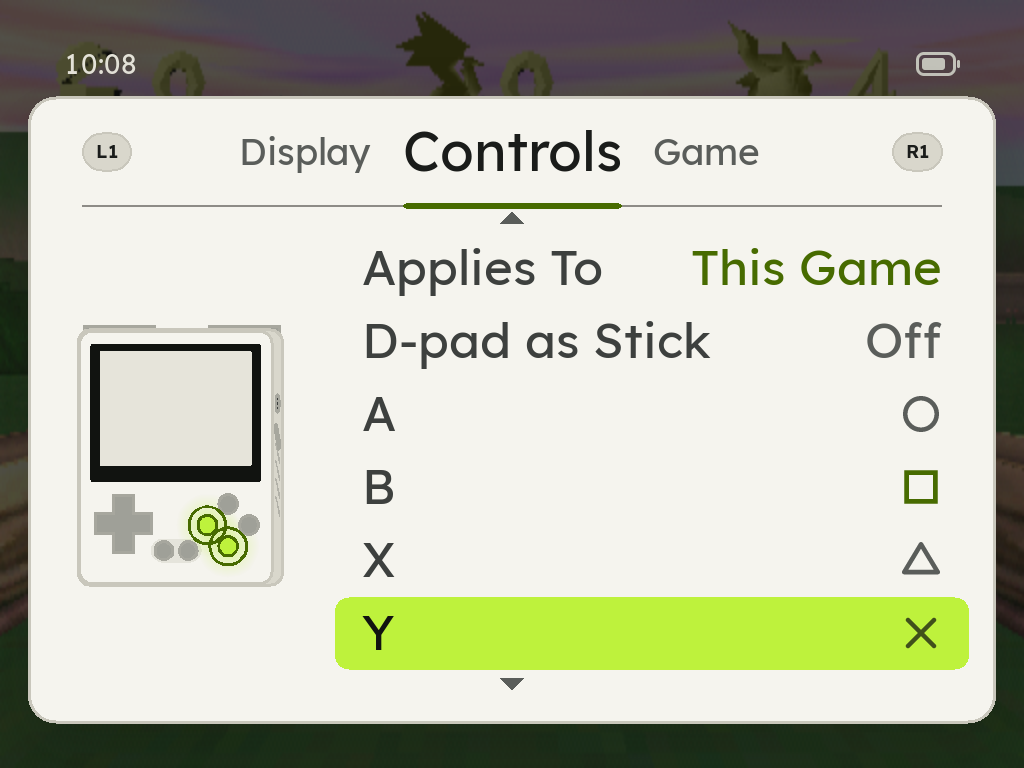
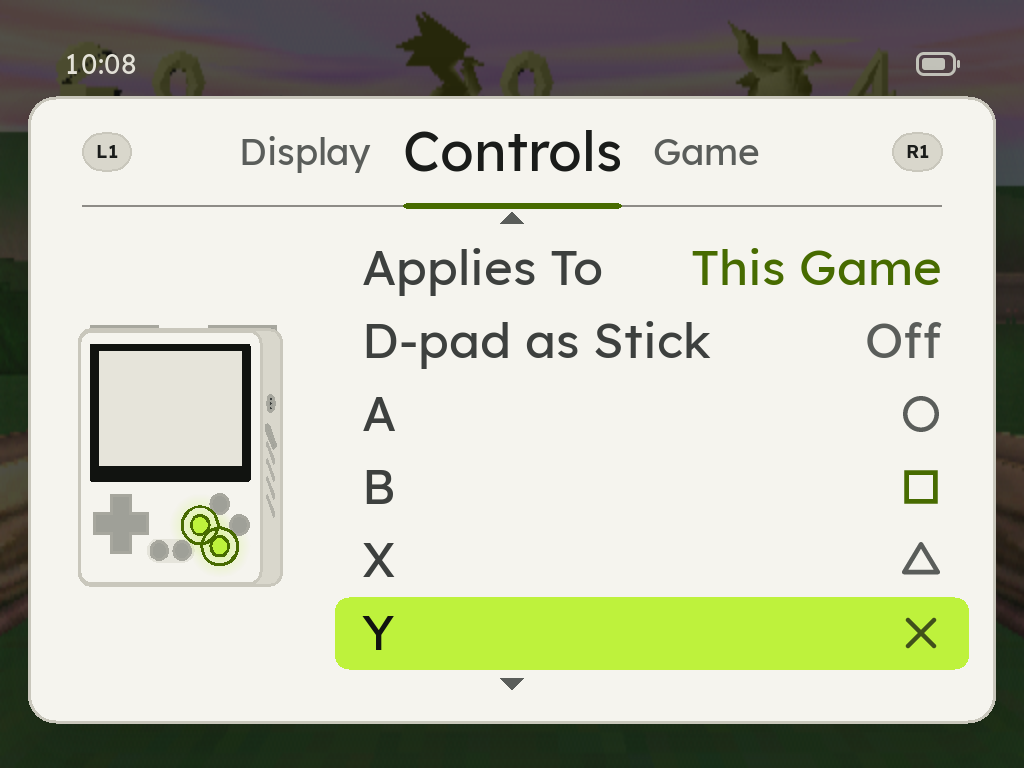
Controls tab: the handheld leans toward the button
The handheld turns 12 degrees toward the side of the keys the focused row
lights (ct_lean: A, B, X, Y, R1, R2 right; d-pad, L1, L2 left; SELECT, START,
both sides or none front), eased in the turn token from where it is.

Changed region(s): [[0.125, 0.4375, 0.2812, 0.75]]

diff --git a/src/ctltab_screen.c b/src/ctltab_screen.c
@@ -33,6 +33,9 @@
 #define DEV_DEG   10.0f
 /* Turned this far as the tab comes in, to DEV_DEG in **turn** */
 #define DEV_DEG_IN 40.0f
+/* Leaning toward the side of the keys the focused row lights, this far
+ * either way of DEV_DEG, in **turn** (ct_lean says which side) */
+#define DEV_LEAN  12.0f
 /* How far a tab's move takes it: in with the rows, 64 units the press's way;
  * out with the old tab's name, 96 the press's way (menu_tabs_draw's) */
 #define DEV_IN_DX  64.0f
@@ -68,6 +71,10 @@ static struct {
 	rm_table    base;
 	/* Each key's light, and its press: from where it was, and when */
 	tween       on[TD_KEYS];
+	/* The lean, degrees off DEV_DEG: from where it was, to where it goes,
+	 * and when, retargeted at each new row, never queued */
+	float       lean_from, lean_to;
+	unsigned    lean_t0;
 	bool        snap;
 	float       press_from[TD_KEYS];
 	unsigned    press_t0[TD_KEYS];
@@ -230,12 +237,38 @@ static void press(int k)
 	g_cs.press_t0[k] = now ? now : 1;
 }
 
+/* The lean (degrees off DEV_DEG) at `now`, in **turn** */
+static float lean_at(unsigned now)
+{
+	const unsigned el = now - g_cs.lean_t0;
+
+	if (!g_cs.lean_t0 || el >= DS_MS_TURN) return g_cs.lean_to;
+	return g_cs.lean_from + (g_cs.lean_to - g_cs.lean_from) * ds_turn((float)el / DS_MS_TURN);
+}
+
+/* The lean heads for the side of `target`'s keys, from where it is; there at
+ * once, the first time */
+static void lean_toward(unsigned target, unsigned now)
+{
+	const float to = DEV_LEAN * (float)ct_lean(target);
+
+	if (g_cs.snap) {
+		g_cs.lean_from = g_cs.lean_to = to;
+		g_cs.lean_t0 = 0;
+	} else if (to != g_cs.lean_to) {
+		g_cs.lean_from = lean_at(now);
+		g_cs.lean_to = to;
+		g_cs.lean_t0 = now ? now : 1;
+	}
+}
+
 /* The keys lit move to `target`, each in **quick** from where it is, the
  * old going out as the new come in; or there at once, the first time */
 static void lights_to(unsigned target, unsigned now)
 {
 	int k;
 
+	lean_toward(target, now);
 	for (k = 0; k < TD_KEYS; k++) {
 		const float to = target >> k & 1u ? 1.0f : 0.0f;
 
@@ -296,6 +329,8 @@ static bool pose_of(const menu_side *at, td_pose *p, bool *moving)
 		if (mv < 1.0f) *moving = true;
 	}
 	if (op <= 0.004f) return false;
+	deg += lean_at(at->now);
+	if (g_cs.lean_t0 && at->now - g_cs.lean_t0 < DS_MS_TURN) *moving = true;
 	/* Cleared whole, padding too, so two poses compare as bytes */
 	memset(p, 0, sizeof *p);
 	p->cx = (float)at->content_x + DEV_DX + dx;
@@ -350,6 +385,8 @@ void ctlscr_open(void)
 	g_cs.base_row = -1;
 	g_cs.mode = CS_TAB;
 	g_cs.steady = false;
+	g_cs.lean_from = g_cs.lean_to = 0.0f;
+	g_cs.lean_t0 = 0;
 	for (k = 0; k < TD_KEYS; k++) g_cs.press_t0[k] = 0;
 }
 

diff --git a/tools/menu-check.c b/tools/menu-check.c
@@ -2248,6 +2248,27 @@ static void ctl_tab(void)
 	ck(ct_lit(&m, CT_BUTTON + RM_Y) == 1u << TD_Y, "once the cursor comes back, Y alone");
 	ck(ct_lit(&m, CT_RESET) == (1u << TD_Y | 1u << TD_B), "Reset Buttons lights every changed button");
 
+	/* ct_lean: the handheld turns toward the side the focused row lights */
+	ct_ps1(&m);
+	ck(ct_lean(1u << TD_Y) == 1 && ct_lean(1u << TD_A | 1u << TD_R2) == 1, "ct_lean: right keys, +1");
+	ck(ct_lean(1u << TD_DPAD) == -1 && ct_lean(1u << TD_L2) == -1, "ct_lean: left keys, -1");
+	ck(ct_lean(1u << TD_SELECT) == 0 && ct_lean(1u << TD_START) == 0 && ct_lean(0) == 0,
+	   "ct_lean: the middle keys and none, front");
+	ck(ct_lean(1u << TD_DPAD | 1u << TD_SELECT) == -1, "ct_lean: left and centre is left");
+	ck(ct_lean(1u << TD_L1 | 1u << TD_R1) == 0, "ct_lean: both sides, front");
+	ck(ct_lean(ct_lit(&m, CT_BUTTON + RM_Y)) == 1, "ct_lean: the Y row leans right");
+	ck(ct_lean(ct_lit(&m, CT_BUTTON + RM_L2)) == -1, "ct_lean: the L2 row leans left");
+	ck(ct_lean(ct_lit(&m, CT_BUTTON + RM_SELECT)) == 0, "ct_lean: the SELECT row, front");
+	ck(ct_lean(ct_lit(&m, CT_STICK)) == -1, "ct_lean: D-pad as Stick leans left on the PlayStation");
+	ck(ct_lean(ct_lit(&m, CT_SCOPE)) == 0 && ct_lean(ct_lit(&m, CT_HOTKEYS)) == 0, "ct_lean: Applies To and Hotkeys, front");
+	rm_set(&m.cur, &m.base, RM_B, (rm_choice){ RT_L1, 0 });
+	ck(ct_lean(ct_lit(&m, CT_RESET)) == 0, "ct_lean: Reset Buttons with B and L1 changed, front");
+	ct_ps1(&m);
+	m.stick_on = true;
+	m.select_held_c = true;
+	ck(ct_lean(ct_lit(&m, CT_STICK)) == -1, "ct_lean: the stick on the N64 (d-pad and SELECT) leans left");
+	ct_ps1(&m);
+
 	/* The steps, round the choices, and Nothing */
 	ct_ps1(&m);
 	nch = ctl_remap_choices("PS1", "chd", "", ch, 32);

diff --git a/src/ctltab.h b/src/ctltab.h
@@ -118,6 +118,12 @@ int ct_rows(const ct_model *m, ct_row *ids, menu_row *out, unsigned *vcol, ct_bu
  * sets; Reset Buttons every changed button; the rest none. */
 unsigned ct_lit(const ct_model *m, ct_row id);
 
+/* Which way the handheld leans for the keys a row lights (a ct_lit mask):
+ * +1 toward its right side (A, B, X, Y, R1, R2), -1 toward its left (the
+ * d-pad, L1, L2), 0 for the front: SELECT and START alone, no keys, or keys
+ * on both sides. A side key with a centre key leans to its side. */
+int ct_lean(unsigned keys);
+
 /* The button a button row is about (RM_*), -1 for another row */
 int ct_button_of(ct_row id);
 

diff --git a/src/ctltab.c b/src/ctltab.c
@@ -295,6 +295,15 @@ unsigned ct_lit(const ct_model *m, ct_row id)
 	}
 }
 
+int ct_lean(unsigned keys)
+{
+	const unsigned left = 1u << TD_DPAD | 1u << TD_L1 | 1u << TD_L2;
+	const unsigned right = 1u << TD_A | 1u << TD_B | 1u << TD_X | 1u << TD_Y | 1u << TD_R1 | 1u << TD_R2;
+	const bool l = (keys & left) != 0, r = (keys & right) != 0;
+
+	return r && !l ? 1 : l && !r ? -1 : 0;
+}
+
 /* ---- the steps ------------------------------------------------------------- */
 
 int ct_choice_at(const ct_model *m, const rm_choice *ch, int n, rm_choice c)

diff --git a/docs/superpowers/specs/2026-11-13-button-remap-design.md b/docs/superpowers/specs/2026-11-13-button-remap-design.md
@@ -349,6 +349,12 @@ row's pages, which are at their own width (section 2).
   button.
 - **Turn:** it faces front (the tutorial's front pose, 10 degrees). A lit
   shoulder stands up out of the top edge, as in the tutorial.
+- **Lean:** it turns a little toward the side of the keys the row lights,
+  12 degrees either way of the front pose: A, B, X, Y, R1 and R2 show its
+  right side (22 degrees), the d-pad, L1 and L2 its left (-2); SELECT, START,
+  keys on both sides (Reset Buttons) and no keys (Applies To, Pak, Hotkeys)
+  bring it back to front. A side key with a centre key (the N64's d-pad and
+  SELECT) leans to its side.
 
 ### 8. Motion
 
@@ -356,9 +362,9 @@ DESIGN.md 8's tokens and curves only; nothing overshoots.
 
 | What | How |
 |---|---|
-| R1 or L1 into Controls | the handheld comes with the rows: 64 units in the press's way, faded up, in **move** (160 ms, out), and turns from 40 to 10 degrees in **turn** (300 ms) |
+| R1 or L1 into Controls | the handheld comes with the rows: 64 units in the press's way, faded up, in **move** (160 ms, out), and turns from 40 to 10 degrees, plus the lean of its first row, in **turn** (300 ms) |
 | Out of Controls | it leaves with the old tab's name: 96 units the press's way, gone in the first two fifths of **move** |
-| Up or Down | the fill glides in **quick** (as today); the old key's light goes out and the new key's comes in, in **quick** (as the tutorial does) |
+| Up or Down | the fill glides in **quick** (as today); the old key's light goes out and the new key's comes in, in **quick** (as the tutorial does); the lean eases to the new row's side in **turn**, retargeted from where it is, never queued |
 | Left or Right on a button | the key presses in **press** (80 ms in, 80 out); a swapped partner lights in **quick** |
 | A shoulder row | the shoulder stands up in **quick** |
 | A to a button's choices, and back | the handheld holds still while the list beside it changes |

diff --git a/DESIGN.md b/DESIGN.md
@@ -3776,13 +3776,17 @@ cursor in the tutorial's lit look (accent fill, ring, halo): a button row its
 button; D-pad as Stick the d-pad (and SELECT on the N64 and the Dreamcast);
 Face Buttons the four faces; Reset Buttons every changed button; a swap
 both buttons while the cursor stays on the row; Applies To, Pak and Hotkeys
-nothing. A lit shoulder stands up out of the top edge.
+nothing. A lit shoulder stands up out of the top edge. It **leans**
+toward the side of the keys lit, 12 degrees either way of the front pose: the
+right keys (A, B, X, Y, R1, R2) turn it to show its right side (22 degrees),
+the left keys (the d-pad, L1, L2) the other way (-2); SELECT, START, keys on
+both sides and no keys bring it back to the front pose.
 
 | What | Token and how |
 |---|---|
-| R1 or L1 into Controls | the handheld comes with the rows, 64 units the press's way and faded up in **move**, and turns from 40 to 10 degrees in **turn** |
+| R1 or L1 into Controls | the handheld comes with the rows, 64 units the press's way and faded up in **move**, and turns from 40 to 10 degrees, plus the lean of its first row, in **turn** |
 | Out of Controls | it leaves with the old tab's name, 96 units the press's way, gone in the first two fifths of **move** |
-| Up or Down | the fill glides in **quick**; the old key's light goes out and the new key's comes in, in **quick** |
+| Up or Down | the fill glides in **quick**; the old key's light goes out and the new key's comes in, in **quick**; the lean eases to the new row's side in **turn**, from where it is |
 | Left or Right on a button | the key presses in **press** (in, then out); a swapped partner lights in **quick** |
 | A shoulder row | the shoulder stands up in **quick** |
 | A to a button's choices, and back | the handheld holds still while the list beside it changes |
